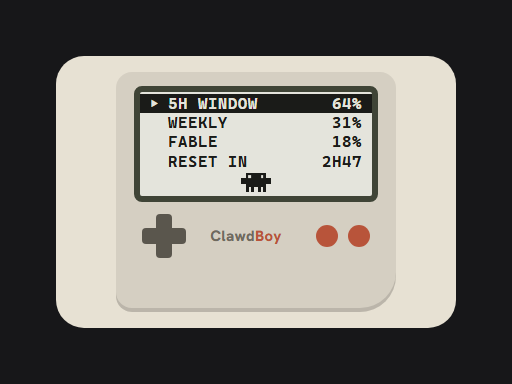
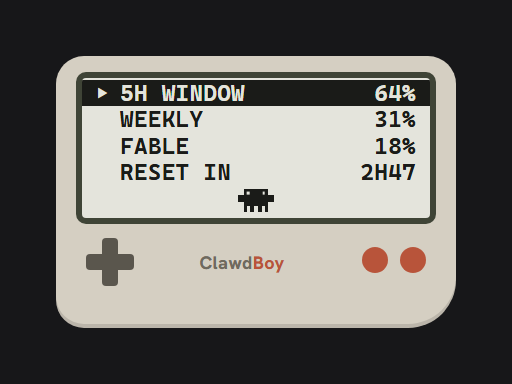
feat(rice): drop ClawdBoy's card, scale its type up
The console was inset inside a cream card, which cost 60px of width and
left the readout too small to scan on a real desktop. The plastic is now
the whole HUD window: the glass goes from 116px wide to 174px, and that
width pays for type roughly 40% larger in all three layouts, at both
full and compact size.

Table's hero row goes 11.5 to 15px and its body 8 to 11px; Menu's rows
go 8 to 11.5px; Quad's values go 11 to 17px with the labels at 8px.
Compact tracks the same increase. The mascot grows with them, and the
D-pad and buttons scale so the shell still reads as a console rather
than a bezel with a badge.

Menu's four rows plus the mascot now measure within a pixel of the
glass, so its line-height is tightened to 1.15 and the sprite trimmed to
18px — at the untightened values the mascot landed on top of the reset
row.

Layout, palette and the two-color rule are unchanged.

diff --git a/app/ui/style.css b/app/ui/style.css
@@ -348,8 +348,8 @@ body.compact #underline .urow .pct { font-size: 12px; }
 }
 
 /* ── ClawdBoy rice skins ───────────────────────────────────────────────────
-   A handheld console: cream card, moulded plastic shell, and a screen that is a
-   true 2-bit panel. Exactly two colors live inside the bezel — --cb-glass and
+   A handheld console filling the whole window, and a screen that is a true
+   2-bit panel. Exactly two colors live inside the bezel — --cb-glass and
    --cb-ink — and nothing on the screen may use a third. That is also why the
    mascot is repainted here: it is the one skin allowed to override the locked
    orange, because an orange sprite is the single thing such a panel could not
@@ -361,41 +361,41 @@ body.compact #underline .urow .pct { font-size: 12px; }
   --cb-glass: #e4e4dc;
   --cb-ink: #1a1b18;
   width: 200px; height: 136px; position: relative;
-  background: #e7e1d3; border-radius: 14px; overflow: hidden;
 }
 body.compact #clawdboy { width: 120px; height: 106px; }
 
+/* The plastic IS the window — no card behind it. That buys the glass 58px of
+   width over the inset version, which is where the larger type comes from. */
 #clawdboy .cb-body {
-  position: absolute; inset: 8px 30px; padding: 7px 9px;
-  background: #d5cfc2; border-radius: 8px 8px 18px 8px;
+  position: absolute; inset: 0; padding: 8px 10px;
+  background: #d5cfc2; border-radius: 14px 14px 24px 14px;
   box-shadow: inset 0 -2px 0 rgba(0, 0, 0, .12);
 }
-body.compact #clawdboy .cb-body { inset: 7px 14px; }
+body.compact #clawdboy .cb-body { padding: 6px 7px; border-radius: 12px 12px 20px 12px; }
 
 #clawdboy .cb-scr {
-  height: 58px; position: relative; overflow: hidden;
+  height: 76px; position: relative; overflow: hidden;
   background: var(--cb-glass); color: var(--cb-ink);
-  border: 3px solid #3f4436; border-radius: 4px;
+  border: 3px solid #3f4436; border-radius: 5px;
   font-family: var(--font-mono); font-variant-numeric: tabular-nums;
 }
-body.compact #clawdboy .cb-scr { height: 50px; }
+body.compact #clawdboy .cb-scr { height: 62px; border-width: 2px; border-radius: 4px; }
 
 /* Control row: D-pad, wordmark, jelly buttons. The wordmark is full-size only —
-   at 120px the shell leaves ~74px of row and the D-pad plus buttons eat 44 of
-   it, so a legible "ClawdBoy" would push the buttons off the plastic. */
-#clawdboy .cb-ctl { display: flex; align-items: center; justify-content: space-between; margin-top: 6px; padding: 0 4px; }
-body.compact #clawdboy .cb-ctl { margin-top: 4px; }
-#clawdboy .cb-dpad { position: relative; width: 22px; height: 22px; flex: none; }
+   at 120px the row is needed for the D-pad and buttons alone. */
+#clawdboy .cb-ctl { display: flex; align-items: center; justify-content: space-between; margin-top: 7px; padding: 0 5px; }
+body.compact #clawdboy .cb-ctl { margin-top: 5px; padding: 0 3px; }
+#clawdboy .cb-dpad { position: relative; width: 24px; height: 24px; flex: none; }
 #clawdboy .cb-dpad::before, #clawdboy .cb-dpad::after { content: ""; position: absolute; background: #5a564d; border-radius: 2px; }
-#clawdboy .cb-dpad::before { left: 7px; top: 0; width: 8px; height: 22px; }
-#clawdboy .cb-dpad::after { left: 0; top: 7px; width: 22px; height: 8px; }
-body.compact #clawdboy .cb-dpad { width: 16px; height: 16px; }
-body.compact #clawdboy .cb-dpad::before { left: 5px; width: 6px; height: 16px; }
-body.compact #clawdboy .cb-dpad::after { top: 5px; width: 16px; height: 6px; }
+#clawdboy .cb-dpad::before { left: 8px; top: 0; width: 8px; height: 24px; }
+#clawdboy .cb-dpad::after { left: 0; top: 8px; width: 24px; height: 8px; }
+body.compact #clawdboy .cb-dpad { width: 18px; height: 18px; }
+body.compact #clawdboy .cb-dpad::before { left: 6px; width: 6px; height: 18px; }
+body.compact #clawdboy .cb-dpad::after { top: 6px; width: 18px; height: 6px; }
 #clawdboy .cb-btns { flex: none; }
-#clawdboy .cb-btns i { display: inline-block; width: 11px; height: 11px; border-radius: 50%; background: #b8543a; margin-left: 5px; }
-body.compact #clawdboy .cb-btns i { width: 9px; height: 9px; }
-#clawdboy .cb-wm { flex: 1; text-align: center; min-width: 0; font: 800 7.5px var(--font-sans); letter-spacing: .2px; color: #6f6a5e; }
+#clawdboy .cb-btns i { display: inline-block; width: 13px; height: 13px; border-radius: 50%; background: #b8543a; margin-left: 6px; }
+body.compact #clawdboy .cb-btns i { width: 10px; height: 10px; margin-left: 5px; }
+#clawdboy .cb-wm { flex: 1; text-align: center; min-width: 0; font: 800 9px var(--font-sans); letter-spacing: .2px; color: #6f6a5e; }
 #clawdboy .cb-wm i { font-style: normal; color: #b8543a; }
 body.compact #clawdboy .cb-wm { display: none; }
 
@@ -421,47 +421,48 @@ body.compact #clawdboy .cb-lc { display: inline; }
 
 /* ── Table — clawd left, four-row key/value right ─────────────────────────
    The reset sits below a rule because it is a time, not a percentage. */
-#clawdboy .cb-table { align-items: center; gap: 6px; padding: 0 7px; height: 100%; }
-#clawdboy .cb-table .clawd svg { width: 25px; height: auto; }
-body.compact #clawdboy .cb-table { gap: 4px; padding: 0 5px; }
-body.compact #clawdboy .cb-table .clawd svg { width: 18px; height: auto; }
+#clawdboy .cb-table { align-items: center; gap: 9px; padding: 0 9px; height: 100%; }
+#clawdboy .cb-table .clawd svg { width: 34px; height: auto; }
+body.compact #clawdboy .cb-table { gap: 6px; padding: 0 6px; }
+body.compact #clawdboy .cb-table .clawd svg { width: 22px; height: auto; }
 #clawdboy .cb-col { flex: 1; min-width: 0; display: flex; flex-direction: column; }
-#clawdboy .cb-rw { display: flex; justify-content: space-between; font: 700 8px/1.3 var(--font-mono); }
-#clawdboy .cb-rw.hero { font-weight: 800; font-size: 11.5px; line-height: 1.2; }
-#clawdboy .cb-rw.rst { border-top: 1px solid var(--cb-ink); margin-top: 2px; padding-top: 2px; font-size: 7.5px; }
-body.compact #clawdboy .cb-rw { font-size: 7px; line-height: 1.25; }
-body.compact #clawdboy .cb-rw.hero { font-size: 10px; }
-body.compact #clawdboy .cb-rw.rst { font-size: 6px; }
+#clawdboy .cb-rw { display: flex; justify-content: space-between; font: 700 11px/1.3 var(--font-mono); }
+#clawdboy .cb-rw.hero { font-weight: 800; font-size: 15px; line-height: 1.2; }
+#clawdboy .cb-rw.rst { border-top: 1px solid var(--cb-ink); margin-top: 3px; padding-top: 3px; font-size: 9.5px; }
+body.compact #clawdboy .cb-rw { font-size: 9.5px; line-height: 1.3; }
+body.compact #clawdboy .cb-rw.hero { font-size: 12px; }
+body.compact #clawdboy .cb-rw.rst { font-size: 8px; margin-top: 2px; padding-top: 2px; }
 
 /* ── Menu — a pause-menu list, active row inverted ────────────────────────
    Inverting the whole row is the only highlight a two-color panel has. Row
    order is fixed so the eye learns positions. */
-#clawdboy .cb-menu { flex-direction: column; padding: 1px 5px; height: 100%; }
-#clawdboy .cb-li { display: flex; align-items: center; gap: 3px; font: 700 8px/1.2 var(--font-mono); letter-spacing: .3px; }
-#clawdboy .cb-li .c { width: 6px; flex: none; }
+#clawdboy .cb-menu { flex-direction: column; padding: 1px 7px 2px; height: 100%; }
+#clawdboy .cb-li { display: flex; align-items: center; gap: 4px; font: 700 11.5px/1.15 var(--font-mono); letter-spacing: .2px; }
+#clawdboy .cb-li .c { width: 8px; flex: none; }
 #clawdboy .cb-li .cb-v { margin-left: auto; font-weight: 800; }
-#clawdboy .cb-li.sel { background: var(--cb-ink); color: var(--cb-glass); margin: 0 -5px; padding: 0 5px; }
+#clawdboy .cb-li.sel { background: var(--cb-ink); color: var(--cb-glass); margin: 0 -7px; padding: 0 7px; }
 #clawdboy .cb-mv { margin-top: auto; display: flex; justify-content: center; }
-#clawdboy .cb-menu .clawd svg { width: 14.8px; height: auto; }
-body.compact #clawdboy .cb-menu { padding: 1px 4px; }
-body.compact #clawdboy .cb-li { font-size: 6.5px; }
-body.compact #clawdboy .cb-li.sel { margin: 0 -4px; padding: 0 4px; }
-body.compact #clawdboy .cb-menu .clawd svg { width: 12.2px; height: auto; }
+#clawdboy .cb-menu .clawd svg { width: 18px; height: auto; }
+body.compact #clawdboy .cb-menu { padding: 1px 5px 2px; }
+body.compact #clawdboy .cb-li { font-size: 9px; line-height: 1.15; gap: 3px; }
+body.compact #clawdboy .cb-li .c { width: 6px; }
+body.compact #clawdboy .cb-li.sel { margin: 0 -5px; padding: 0 5px; }
+body.compact #clawdboy .cb-menu .clawd svg { width: 14px; height: auto; }
 
 /* ── Quad — four hairline cells, one value each ───────────────────────────
    Clawd replaces the label in the cell it owns. Labels stay spelled out at both
-   sizes: a 37px compact cell still fits CURRENT at 5px mono. */
+   sizes — a 50px compact cell fits CURRENT at 6px mono with room to spare. */
 #clawdboy .cb-quad { grid-template-columns: 1fr 1fr; grid-template-rows: 1fr 1fr; height: 100%; }
 #clawdboy .cb-q { display: flex; flex-direction: column; align-items: center; justify-content: center;
   border-right: 1px solid var(--cb-ink); border-bottom: 1px solid var(--cb-ink); }
 #clawdboy .cb-q:nth-child(2), #clawdboy .cb-q:nth-child(4) { border-right: 0; }
 #clawdboy .cb-q:nth-child(3), #clawdboy .cb-q:nth-child(4) { border-bottom: 0; }
-#clawdboy .cb-q .k { font: 700 5.5px var(--font-mono); letter-spacing: .8px; }
-#clawdboy .cb-q .cb-v { font: 800 11px/1.1 var(--font-mono); }
-#clawdboy .cb-q.mas { gap: 1px; }
-#clawdboy .cb-q .cb-v.rst { font-size: 8px; }
-#clawdboy .cb-quad .clawd svg { width: 15.1px; height: auto; }
-body.compact #clawdboy .cb-q .k { font-size: 5px; letter-spacing: .2px; }
-body.compact #clawdboy .cb-q .cb-v { font-size: 9px; }
-body.compact #clawdboy .cb-q .cb-v.rst { font-size: 6.5px; }
-body.compact #clawdboy .cb-quad .clawd svg { width: 10.9px; height: auto; }
+#clawdboy .cb-q .k { font: 700 8px var(--font-mono); letter-spacing: .9px; }
+#clawdboy .cb-q .cb-v { font: 800 17px/1.15 var(--font-mono); }
+#clawdboy .cb-q.mas { gap: 2px; }
+#clawdboy .cb-q .cb-v.rst { font-size: 12px; }
+#clawdboy .cb-quad .clawd svg { width: 23px; height: auto; }
+body.compact #clawdboy .cb-q .k { font-size: 6px; letter-spacing: .3px; }
+body.compact #clawdboy .cb-q .cb-v { font-size: 12px; }
+body.compact #clawdboy .cb-q .cb-v.rst { font-size: 8.5px; }
+body.compact #clawdboy .cb-quad .clawd svg { width: 16px; height: auto; }

diff --git a/docs/mockups/handheld-mono.html b/docs/mockups/handheld-mono.html
@@ -34,13 +34,13 @@
   .band .tag{font:700 10px var(--font-sans);letter-spacing:1px;text-transform:uppercase;color:var(--muted)}
 
   /* ── build status ──────────────────────────────────────────────────────────
-     QUEUED = picked for the ClawdBoy tray submenu, not built yet.
+     SHIPPED = live in the app, under the tray's RICE > ClawdBoy submenu.
      CONCEPT = drawn only; nothing in the app references it. */
   figure.skin{position:relative}
   .st{position:absolute;top:12px;right:12px;z-index:2;
       font:800 8px var(--font-sans);letter-spacing:1.1px;text-transform:uppercase;
       padding:3px 8px;border-radius:99px}
-  .st.queued{background:#2f6f4e;color:#eaf5ee}
+  .st.shipped{background:#2f6f4e;color:#eaf5ee}
   .st.concept{background:var(--paper-3);color:var(--muted);border:1px solid var(--line)}
   .key{max-width:1360px;margin:0 auto;display:flex;gap:16px;align-items:center;
        font-size:11.5px;color:var(--muted)}
@@ -154,10 +154,15 @@
     <span class="sw" style="background:#1a1b18;margin-left:14px"></span>ink <code>#1a1b18</code>
     · payload <code>5H 62%</code> · <code>7D 41%</code> · <code>Fable 18%</code> · <code>reset 2h47m</code>
     · full 200×136 + compact 120×106.</p>
+  <p class="sub"><b>What shipped differs from these tiles in two ways.</b> The cream card behind the console is gone —
+    the plastic is the whole HUD window now, which buys the glass 58px of width. That width paid for type roughly 40%
+    larger everywhere, at both sizes, because at the size drawn here the numbers were hard to read on a real desktop.
+    Layout, palette and the two-color rule are unchanged; see <code>docs/images/hud-clawdboy-*.png</code> for the
+    shipped renders.</p>
 </header>
 
 <div class="key">
-  <span class="st queued">Queued</span><span>picked for the <b>ClawdBoy</b> tray submenu — not built yet</span>
+  <span class="st shipped">Shipped</span><span>live in the app, under the tray's <b>RICE &rsaquo; ClawdBoy</b> submenu</span>
   <span class="st concept" style="margin-left:10px">Concept</span><span>drawn only; nothing in the app references it</span>
 </div>
 
@@ -178,7 +183,7 @@
 [data-skin="m1"] .compact .rw.rst{font-size:6px}
 </style>
 <figure class="skin" data-skin="m1">
-  <span class="st queued">Queued</span>
+  <span class="st shipped">Shipped</span>
   <figcaption><b>M1 · Table</b> — clawd on the left, a four-row key/value table on the right, the reset split off below a
     rule because it is a time and not a percentage. The most legible of the set and the least decorated.<br>
     <b>Revised:</b> clawd 23→25px wide (compact 16→18), body type 7→8px, hero 10→11.5px, reset 6.5→7.5px.</figcaption>
@@ -366,7 +371,7 @@
 [data-skin="m5"] .compact .li{font-size:6.5px;line-height:1.2}
 </style>
 <figure class="skin" data-skin="m5">
-  <span class="st queued">Queued</span>
+  <span class="st shipped">Shipped</span>
   <figcaption><b>M5 · Menu</b> — the four values as a pause-menu list, the active window inverted the way a mono menu
     highlights a row. Row order is fixed so the eye learns positions. Scales down better than any other variant because
     it is only text.<br>
@@ -416,7 +421,7 @@
 [data-skin="m6"] .compact .q .k{font-size:5px;letter-spacing:.2px}
 </style>
 <figure class="skin" data-skin="m6">
-  <span class="st queued">Queued</span>
+  <span class="st shipped">Shipped</span>
   <figcaption><b>M6 · Quad</b> — the glass divided into four equal cells by hairlines, one number each, clawd replacing
     the label in the cell it owns. Every value gets identical weight and the grid survives being shrunk further than
     any other layout here.<br>